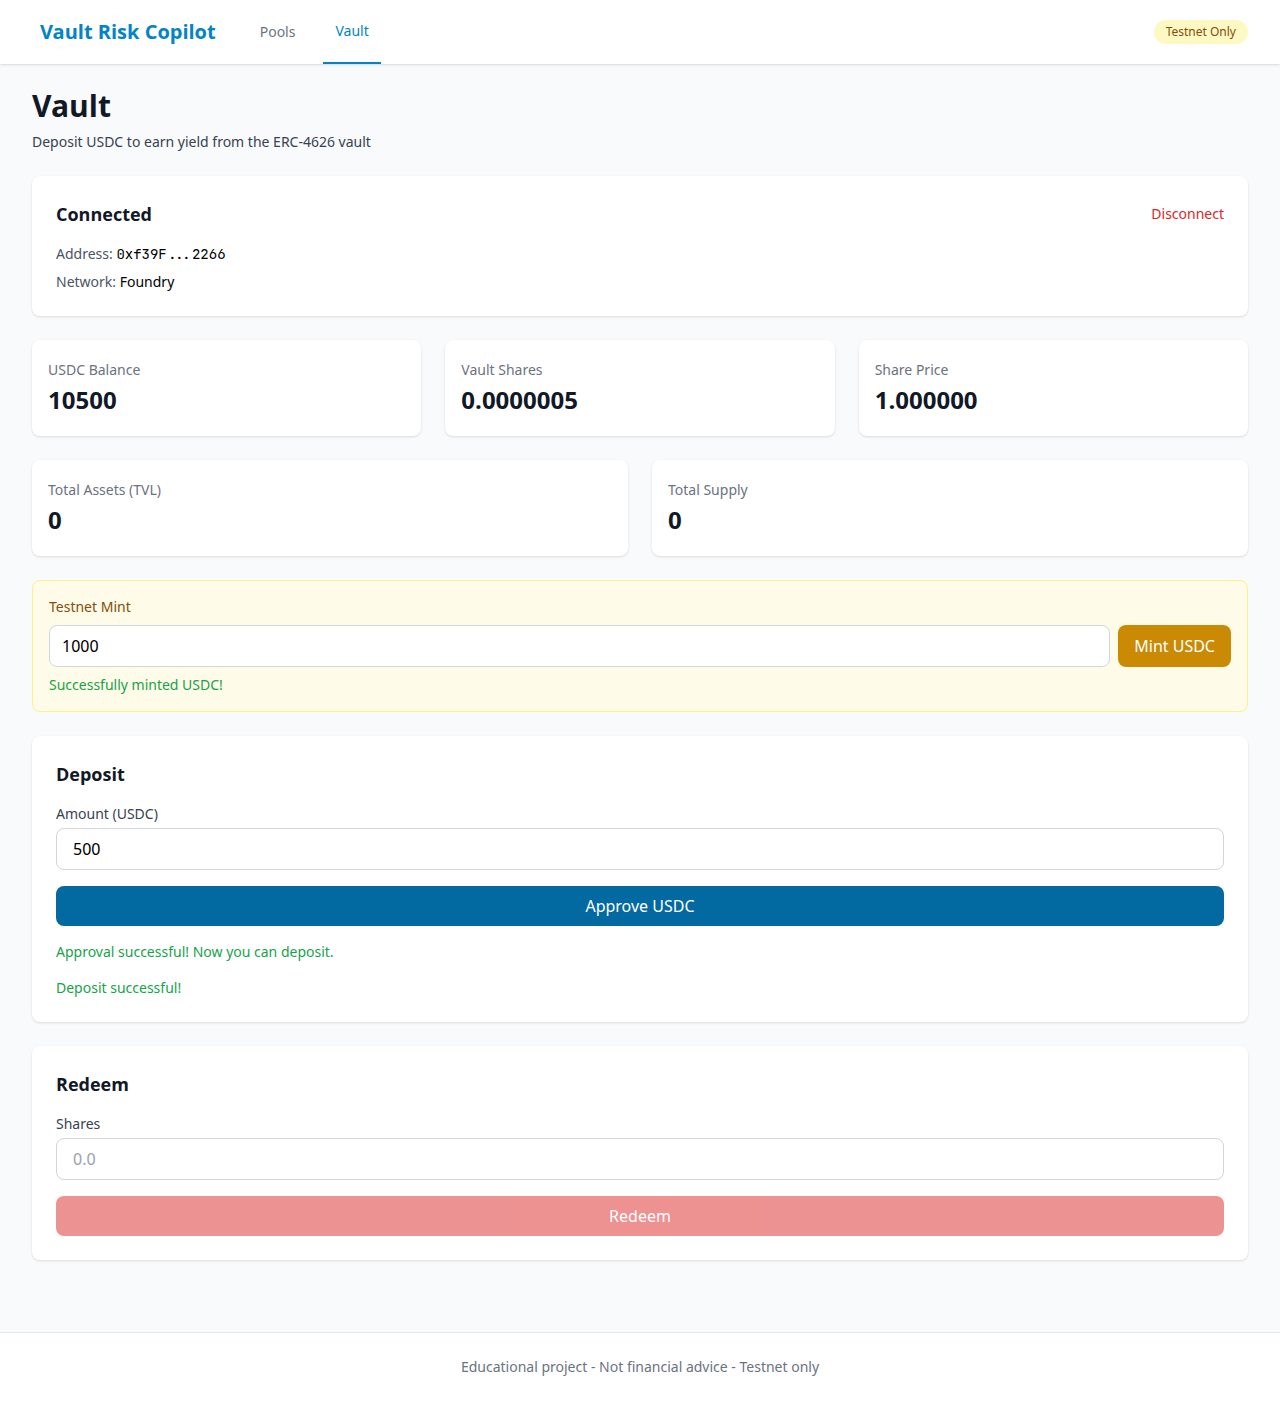
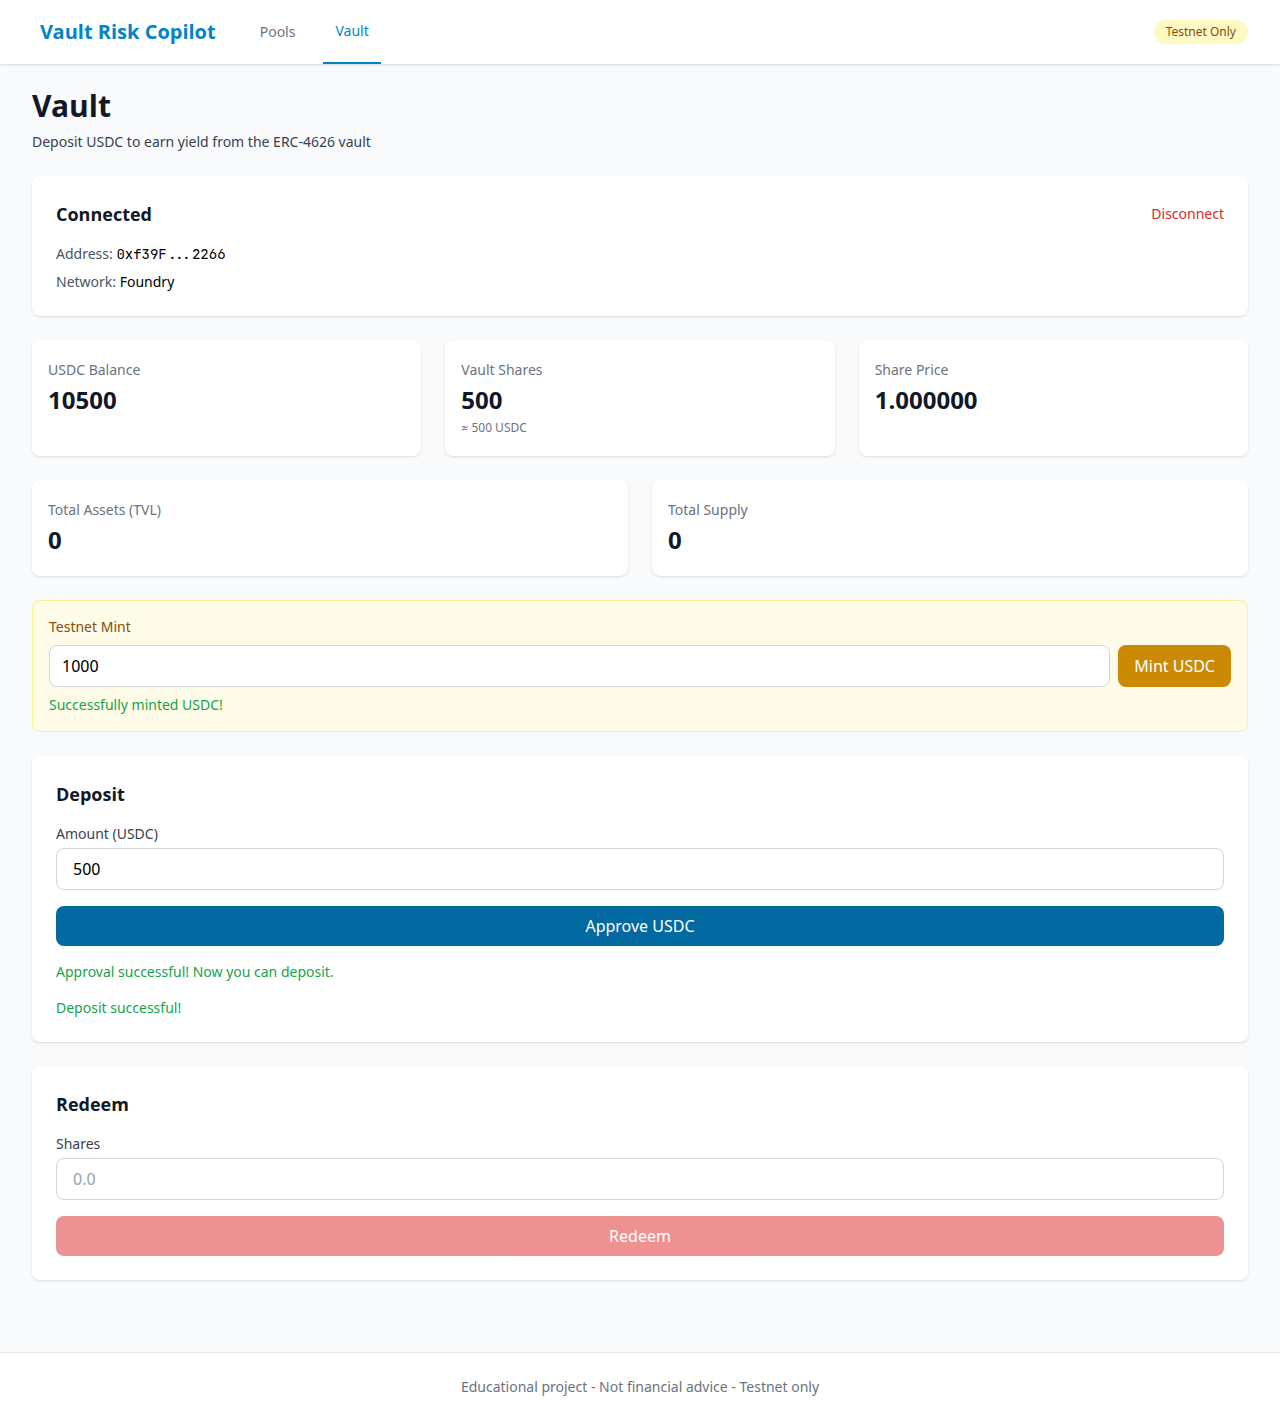
Fix vault shares decimals display and tighten E2E assertions
- Read vault decimals() from contract (9 = USDC 6 + offset 3)
- Format shares using vault.decimals() instead of hardcoded 18
- Add convertToAssets to show USDC equivalent (~500 USDC)
- Add subtitle to StatCard component for additional info
- Fix handleRedeem to use vault decimals instead of 18

E2E improvements:
- Assert shares display ≈ 500 (not 0.0000005)
- Assert convertToAssets shows ~500 USDC
- Redeem ALL shares (not half) and verify shares == 0
- Assert USDC balance restored to pre-deposit value
- Add vault decimals to test ABI

Test output now shows:
  Vault decimals: 9
  Vault Shares (UI): 500
  Assets value in USDC: 500
  Shares after redeem: 0
  Final USDC balance restored

diff --git a/packages/web/playwright-report/index.html b/packages/web/playwright-report/index.html
@@ -46,4 +46,4 @@ Error generating stack: `+e.message+`
     <div id='root'></div>
   </body>
 </html>
[2 lines of base64/hex data omitted]

diff --git a/packages/web/e2e/vault.spec.ts b/packages/web/e2e/vault.spec.ts
@@ -23,6 +23,20 @@ const VAULT_ABI = [
     stateMutability: 'view',
     type: 'function',
   },
+  {
+    inputs: [],
+    name: 'decimals',
+    outputs: [{ type: 'uint8' }],
+    stateMutability: 'view',
+    type: 'function',
+  },
+  {
+    inputs: [{ name: 'shares', type: 'uint256' }],
+    name: 'convertToAssets',
+    outputs: [{ type: 'uint256' }],
+    stateMutability: 'view',
+    type: 'function',
+  },
 ] as const;
 
 async function takeScreenshot(page: Page, name: string) {
@@ -94,8 +108,13 @@ test.describe('Vault E2E Flow', () => {
     await takeScreenshot(page, '04-after-mint');
 
     // Verify USDC balance updated
-    const usdcBalanceText = await page.getByTestId('usdc-balance').textContent();
-    console.log('USDC Balance after mint:', usdcBalanceText);
+    const usdcBalanceAfterMint = await page.getByTestId('usdc-balance').textContent();
+    const usdcBalanceNum = parseFloat(usdcBalanceAfterMint || '0');
+    console.log('USDC Balance after mint:', usdcBalanceAfterMint);
+    expect(usdcBalanceNum).toBeGreaterThan(1000); // Should have initial + 1000 minted
+
+    // Store initial balance for later comparison
+    const initialUsdcBalance = usdcBalanceNum;
 
     // Try to approve and deposit
     // Deposit
@@ -123,10 +142,22 @@ test.describe('Vault E2E Flow', () => {
     await page.waitForTimeout(2000);
     await takeScreenshot(page, '06-after-deposit');
 
+    // Get vault decimals for proper formatting
+    const vaultDecimals = await publicClient.readContract({
+      address: VAULT_ADDRESS,
+      abi: VAULT_ABI,
+      functionName: 'decimals',
+    });
+    console.log('Vault decimals:', vaultDecimals);
+
     // Verify shares balance
     const sharesText = await page.getByTestId('vault-shares').textContent();
-    console.log('Vault Shares:', sharesText);
-    expect(parseFloat(sharesText || '0')).toBeGreaterThan(0);
+    console.log('Vault Shares (UI):', sharesText);
+    const sharesDisplayed = parseFloat(sharesText || '0');
+    
+    // Shares should be approximately 500 (deposited amount)
+    expect(sharesDisplayed).toBeGreaterThan(400);
+    expect(sharesDisplayed).toBeLessThan(600);
 
     // Verify on-chain balance
     const onChainShares = await publicClient.readContract({
@@ -135,17 +166,49 @@ test.describe('Vault E2E Flow', () => {
       functionName: 'balanceOf',
       args: ['0xf39Fd6e51aad88F6F4ce6aB8827279cffFb92266'],
     });
-    console.log('On-chain shares:', formatUnits(onChainShares, 18));
+    console.log('On-chain shares (raw):', onChainShares.toString());
+    console.log('On-chain shares (formatted):', formatUnits(onChainShares, vaultDecimals));
     expect(onChainShares).toBeGreaterThan(0n);
 
-    // Redeem half
-    const sharesToRedeem = Math.floor(parseFloat(sharesText || '0') / 2);
-    await page.getByTestId('redeem-amount-input').fill(sharesToRedeem.toString());
+    // Verify convertToAssets shows ~500 USDC
+    const assetsValue = await publicClient.readContract({
+      address: VAULT_ADDRESS,
+      abi: VAULT_ABI,
+      functionName: 'convertToAssets',
+      args: [onChainShares],
+    });
+    const assetsInUsdc = parseFloat(formatUnits(assetsValue, 6));
+    console.log('Assets value in USDC:', assetsInUsdc);
+    expect(assetsInUsdc).toBeGreaterThan(490);
+    expect(assetsInUsdc).toBeLessThan(510);
+
+    // Redeem ALL shares
+    await page.getByTestId('redeem-amount-input').fill(sharesDisplayed.toString());
     await page.getByTestId('redeem-button').click();
     
     await expect(page.getByTestId('redeem-success')).toBeVisible({ timeout: 30000 });
     await page.waitForTimeout(2000);
     await takeScreenshot(page, '07-after-redeem');
+
+    // Verify shares are zero after full redeem
+    const sharesAfterRedeem = await publicClient.readContract({
+      address: VAULT_ADDRESS,
+      abi: VAULT_ABI,
+      functionName: 'balanceOf',
+      args: ['0xf39Fd6e51aad88F6F4ce6aB8827279cffFb92266'],
+    });
+    console.log('Shares after redeem:', sharesAfterRedeem.toString());
+    expect(sharesAfterRedeem).toBe(0n);
+
+    // Verify USDC balance restored (should be approximately initial balance)
+    const finalUsdcBalanceText = await page.getByTestId('usdc-balance').textContent();
+    const finalUsdcBalance = parseFloat(finalUsdcBalanceText || '0');
+    console.log('Final USDC balance:', finalUsdcBalance);
+    console.log('Initial USDC balance:', initialUsdcBalance);
+    
+    // Allow small rounding difference
+    const balanceDiff = Math.abs(finalUsdcBalance - initialUsdcBalance);
+    expect(balanceDiff).toBeLessThan(1); // Less than 1 USDC difference
 
     console.log('✅ E2E test completed successfully');
     

diff --git a/packages/web/src/pages/VaultPage.tsx b/packages/web/src/pages/VaultPage.tsx
@@ -23,6 +23,13 @@ const VAULT_ABI = [
     type: 'function',
   },
   {
+    inputs: [],
+    name: 'decimals',
+    outputs: [{ type: 'uint8' }],
+    stateMutability: 'view',
+    type: 'function',
+  },
+  {
     inputs: [
       { name: 'assets', type: 'uint256' },
       { name: 'receiver', type: 'address' }
@@ -41,6 +48,13 @@ const VAULT_ABI = [
     name: 'redeem',
     outputs: [{ type: 'uint256' }],
     stateMutability: 'nonpayable',
+    type: 'function',
+  },
+  {
+    inputs: [{ name: 'shares', type: 'uint256' }],
+    name: 'convertToAssets',
+    outputs: [{ type: 'uint256' }],
+    stateMutability: 'view',
     type: 'function',
   },
   {
@@ -117,6 +131,14 @@ export function VaultPage() {
     query: { enabled: isConnected && !!address },
   });
 
+  const { data: sharesInAssets } = useReadContract({
+    address: VAULT_ADDRESS,
+    abi: VAULT_ABI,
+    functionName: 'convertToAssets',
+    args: sharesBalance ? [sharesBalance] : undefined,
+    query: { enabled: isConnected && !!address && !!sharesBalance },
+  });
+
   const { data: totalAssets } = useReadContract({
     address: VAULT_ADDRESS,
     abi: VAULT_ABI,
@@ -127,6 +149,12 @@ export function VaultPage() {
     address: VAULT_ADDRESS,
     abi: VAULT_ABI,
     functionName: 'totalSupply',
+  });
+
+  const { data: vaultDecimals } = useReadContract({
+    address: VAULT_ADDRESS,
+    abi: VAULT_ABI,
+    functionName: 'decimals',
   });
 
   const { data: allowance, refetch: refetchAllowance } = useReadContract({
@@ -218,8 +246,8 @@ export function VaultPage() {
   };
 
   const handleRedeem = () => {
-    if (!redeemAmount) return;
-    const amount = parseUnits(redeemAmount, 18);
+    if (!redeemAmount || !vaultDecimals) return;
+    const amount = parseUnits(redeemAmount, vaultDecimals);
     redeem({
       address: VAULT_ADDRESS,
       abi: VAULT_ABI,
@@ -306,8 +334,9 @@ export function VaultPage() {
             />
             <StatCard
               label="Vault Shares"
-              value={sharesBalance ? formatUnits(sharesBalance, 18) : '0'}
+              value={sharesBalance && vaultDecimals ? formatUnits(sharesBalance, vaultDecimals) : '0'}
               testId="vault-shares"
+              subtitle={sharesInAssets ? `≈ ${formatUnits(sharesInAssets, 6)} USDC` : undefined}
             />
             <StatCard label="Share Price" value={sharePrice.toFixed(6)} />
           </div>
@@ -429,11 +458,12 @@ export function VaultPage() {
   );
 }
 
-function StatCard({ label, value, testId }: { label: string; value: React.ReactNode; testId?: string }) {
+function StatCard({ label, value, testId, subtitle }: { label: string; value: React.ReactNode; testId?: string; subtitle?: string }) {
   return (
     <div className="bg-white shadow rounded-lg px-4 py-5">
       <dt className="text-sm font-medium text-gray-500 truncate">{label}</dt>
       <dd data-testid={testId} className="mt-1 text-2xl font-semibold text-gray-900">{value}</dd>
+      {subtitle && <dd className="mt-1 text-xs text-gray-500">{subtitle}</dd>}
     </div>
   );
 }
